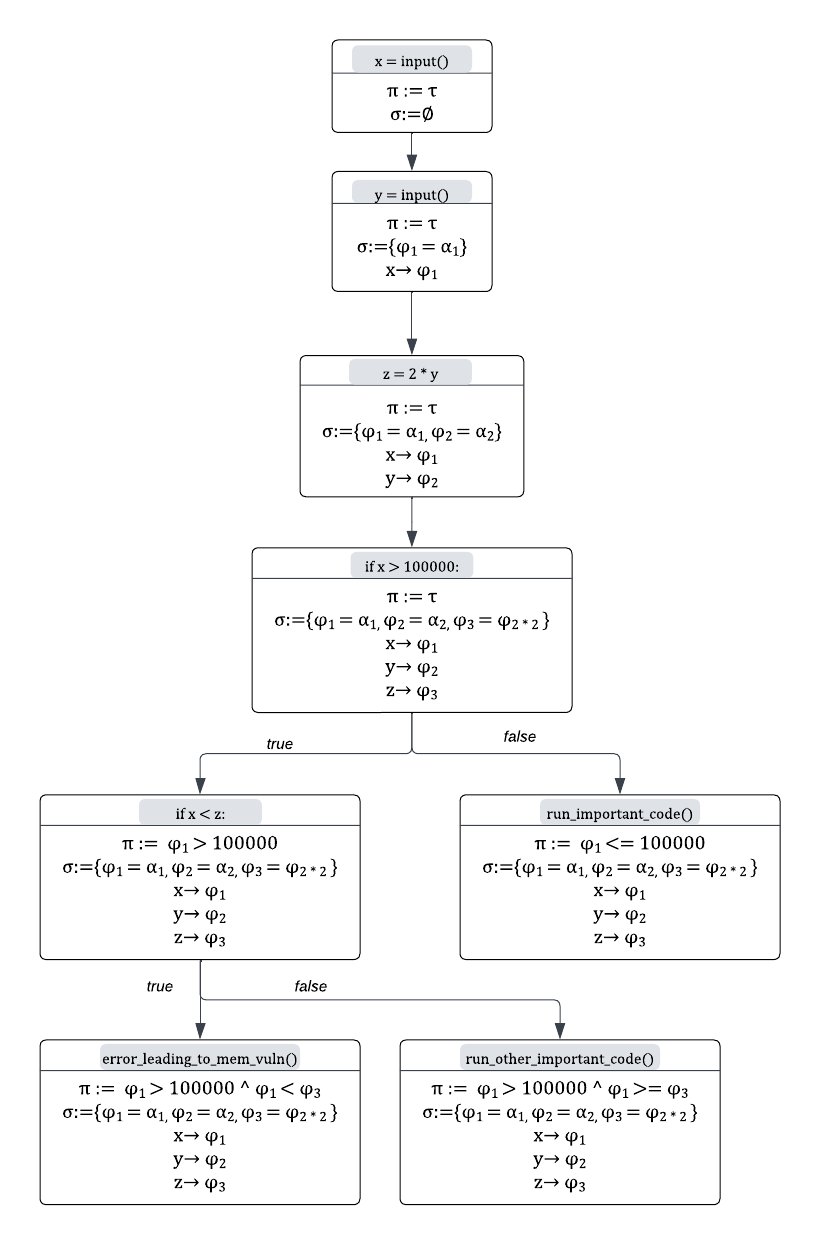
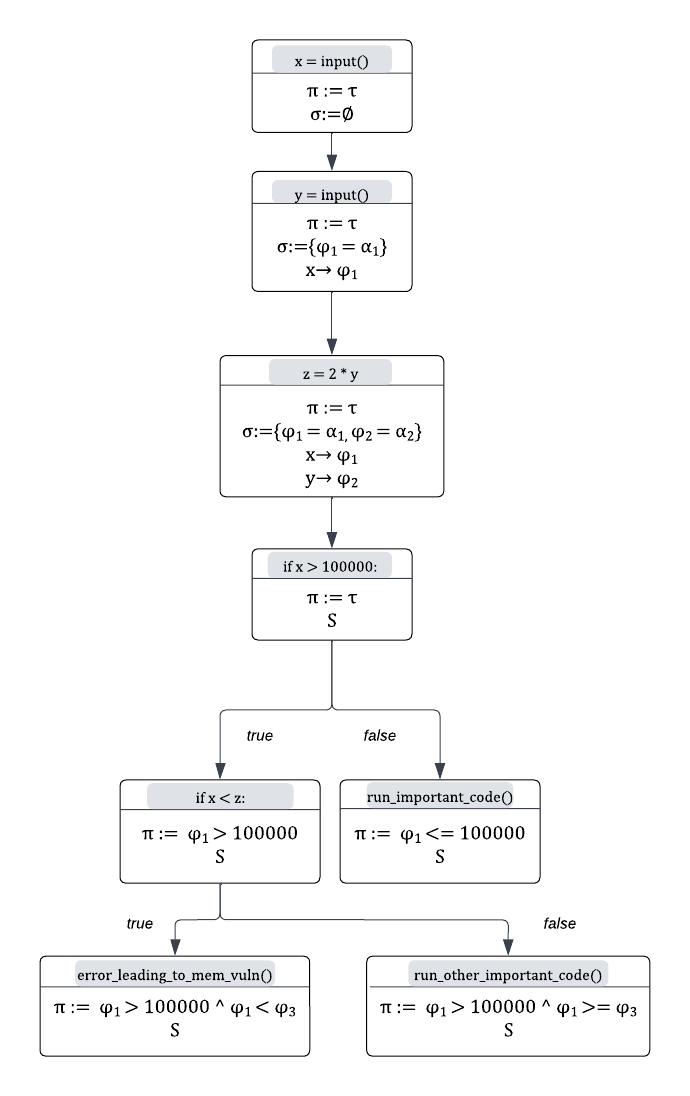
report/symbex: fix figures

Changed region(s): [[0.0304, 0.031, 0.9435, 0.9927], [0.9435, 0.6515, 0.9739, 0.7755], [0.0304, 0.6515, 0.0609, 0.6825]]

diff --git a/doc/report/teori/symbolisk_exekvering.tex b/doc/report/teori/symbolisk_exekvering.tex
@@ -37,7 +37,11 @@ symbolisk exekvering aldrig terminerar~\cite{path_explo}, är det inte effektivt
 att alltid undersöka alla branchar i ett program. Exempel på metoder för att
 undvika path explosion är \emph{state-merging} och \emph{heuristics}.
 
-\begin{figure}
+För att illustrera symbolisk exekvering används följande pseudokod:
+
+\begin{figure}[H]
+  \hspace*{-2cm}
+  \begin{subfigure}[b]{0.58\textwidth}
     \begin{lstlisting}[language=Python, frame=single]
 x = input()
 y = input()
@@ -52,10 +56,28 @@ if x == 100000:
     run_other_important_code()
 else:
   run_important_code()
-
 \end{lstlisting}
-    \caption{Pseudokod för att visualisera symbolisk exekvering.}
+    \caption{} % används för att rendera a) som caption
     \label{fig:symbex_example_code}
+  \end{subfigure}
+  \hspace*{\fill}
+  \begin{subfigure}[t]{0.5\textwidth}
+    \centering
+    \includegraphics[scale=0.38]{figures/final_symbolic_example_graph.png}
+    \caption{} % används för rendera b) som caption
+    \label{fig:symbex_example_graph}
+  \end{subfigure}
+  \begin{align*}
+    \mathcal{S} & = \{ &\\
+    &\sigma := \{\phi_1 = \alpha_1, \phi_2 = \alpha_2, \phi_3 = \phi_2 *
+    2\},&\\
+    &x \rightarrow \phi_1,&\\
+    &y \rightarrow \phi_2,&\\
+    &z \rightarrow \phi_3,&\\
+    \}
+  \end{align*}
+  \caption{Exempel för att visa symbolisk exekvering: pseudokod (a) och path
+  constraint och symboliskt tillstånd för alla stigar i pseudokoden angett i (b)}
 \end{figure}
 
 Exempletprogrammet i figur~\ref{fig:symbex_example_code} använder
@@ -70,15 +92,7 @@ hjälp av en SMT-solver och därmed få ut ett konkret värde.
 Figur~\ref{fig:symbex_example_graph} visar hur det symboliska tillståndet
 förändras för alla möjliga branches i programmet.
 
-\begin{figure}
-    \centering
-    \includegraphics[scale=0.5]{figures/final_symbolic_example_graph.png}
-    \caption{Path constraint och symboliskt tillstånd för alla stigar i
-        pseudokoden angett i figur~\ref{fig:symbex_example_code}.}
-    \label{fig:symbex_example_graph}
-\end{figure}
-
-I figur~\ref{fig:symbex_example_graph} används $\pi$ för att ange path constraint vilket
+I~\ref{fig:symbex_example_graph} används $\pi$ för att ange path constraint vilket
 är initialt satt till $\top$ eftersom villkoret är sant från början och $\phi$
 används för att visa mappningen för symboliska värden.
 
